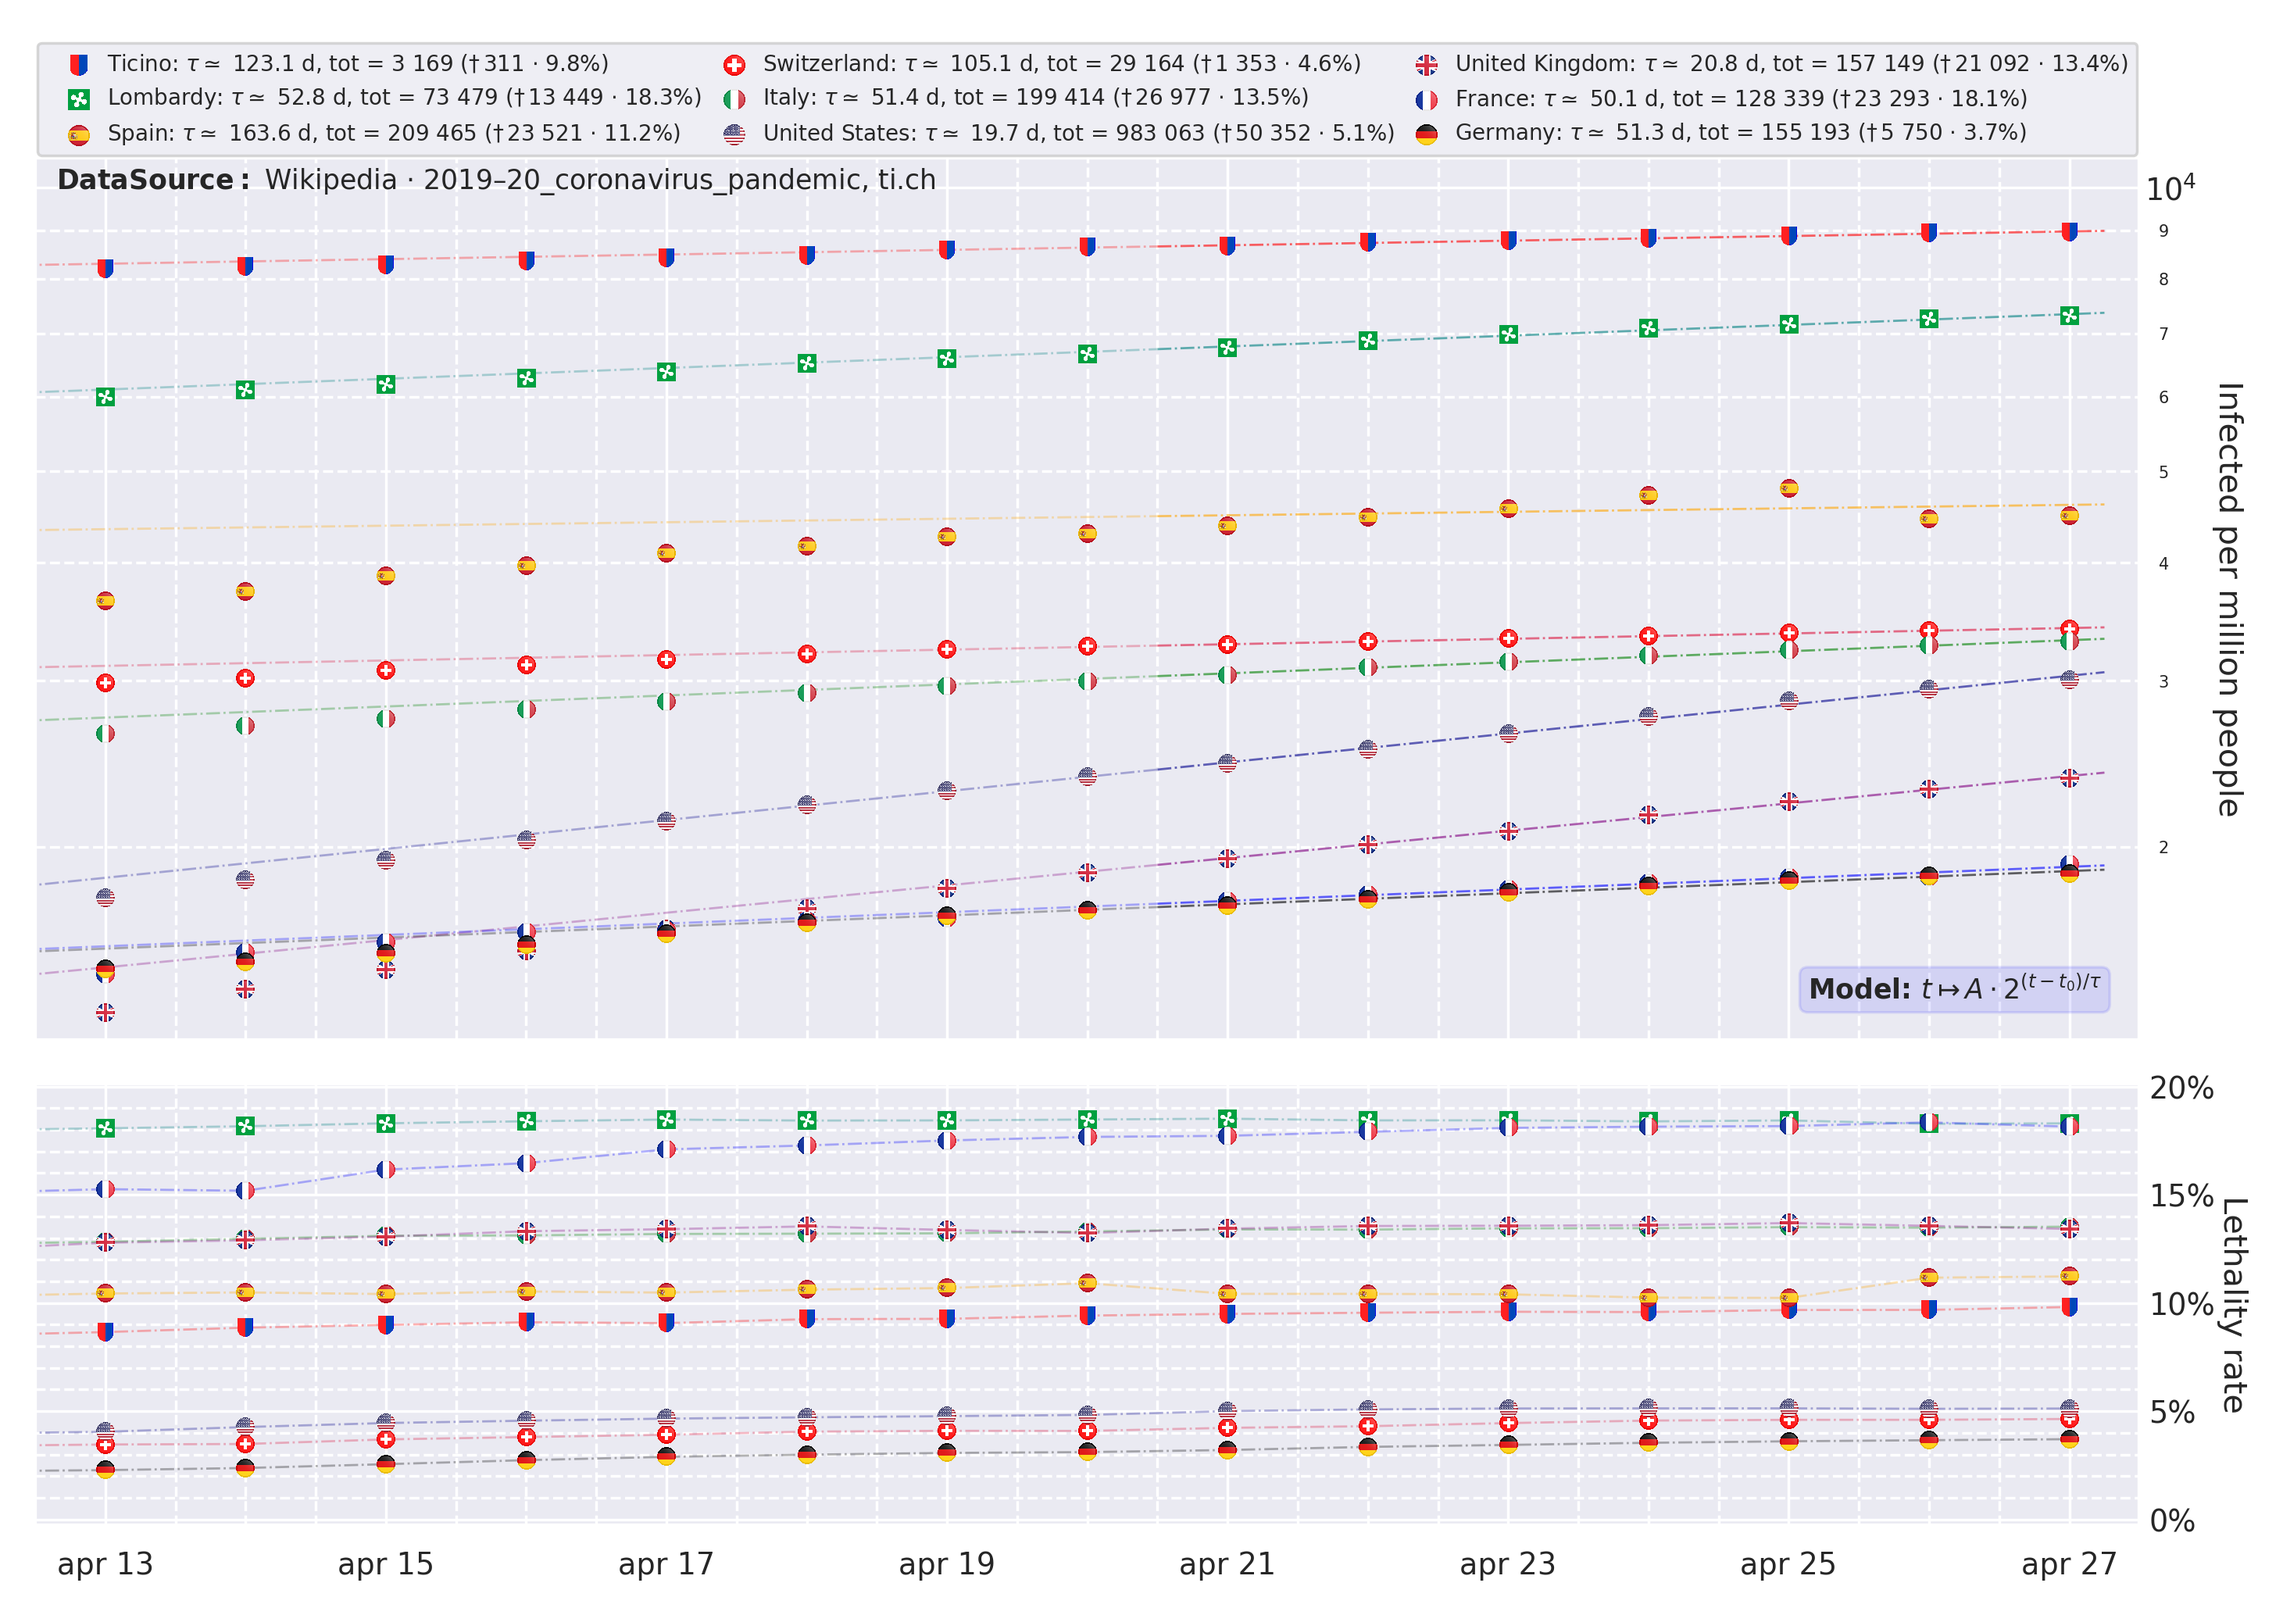
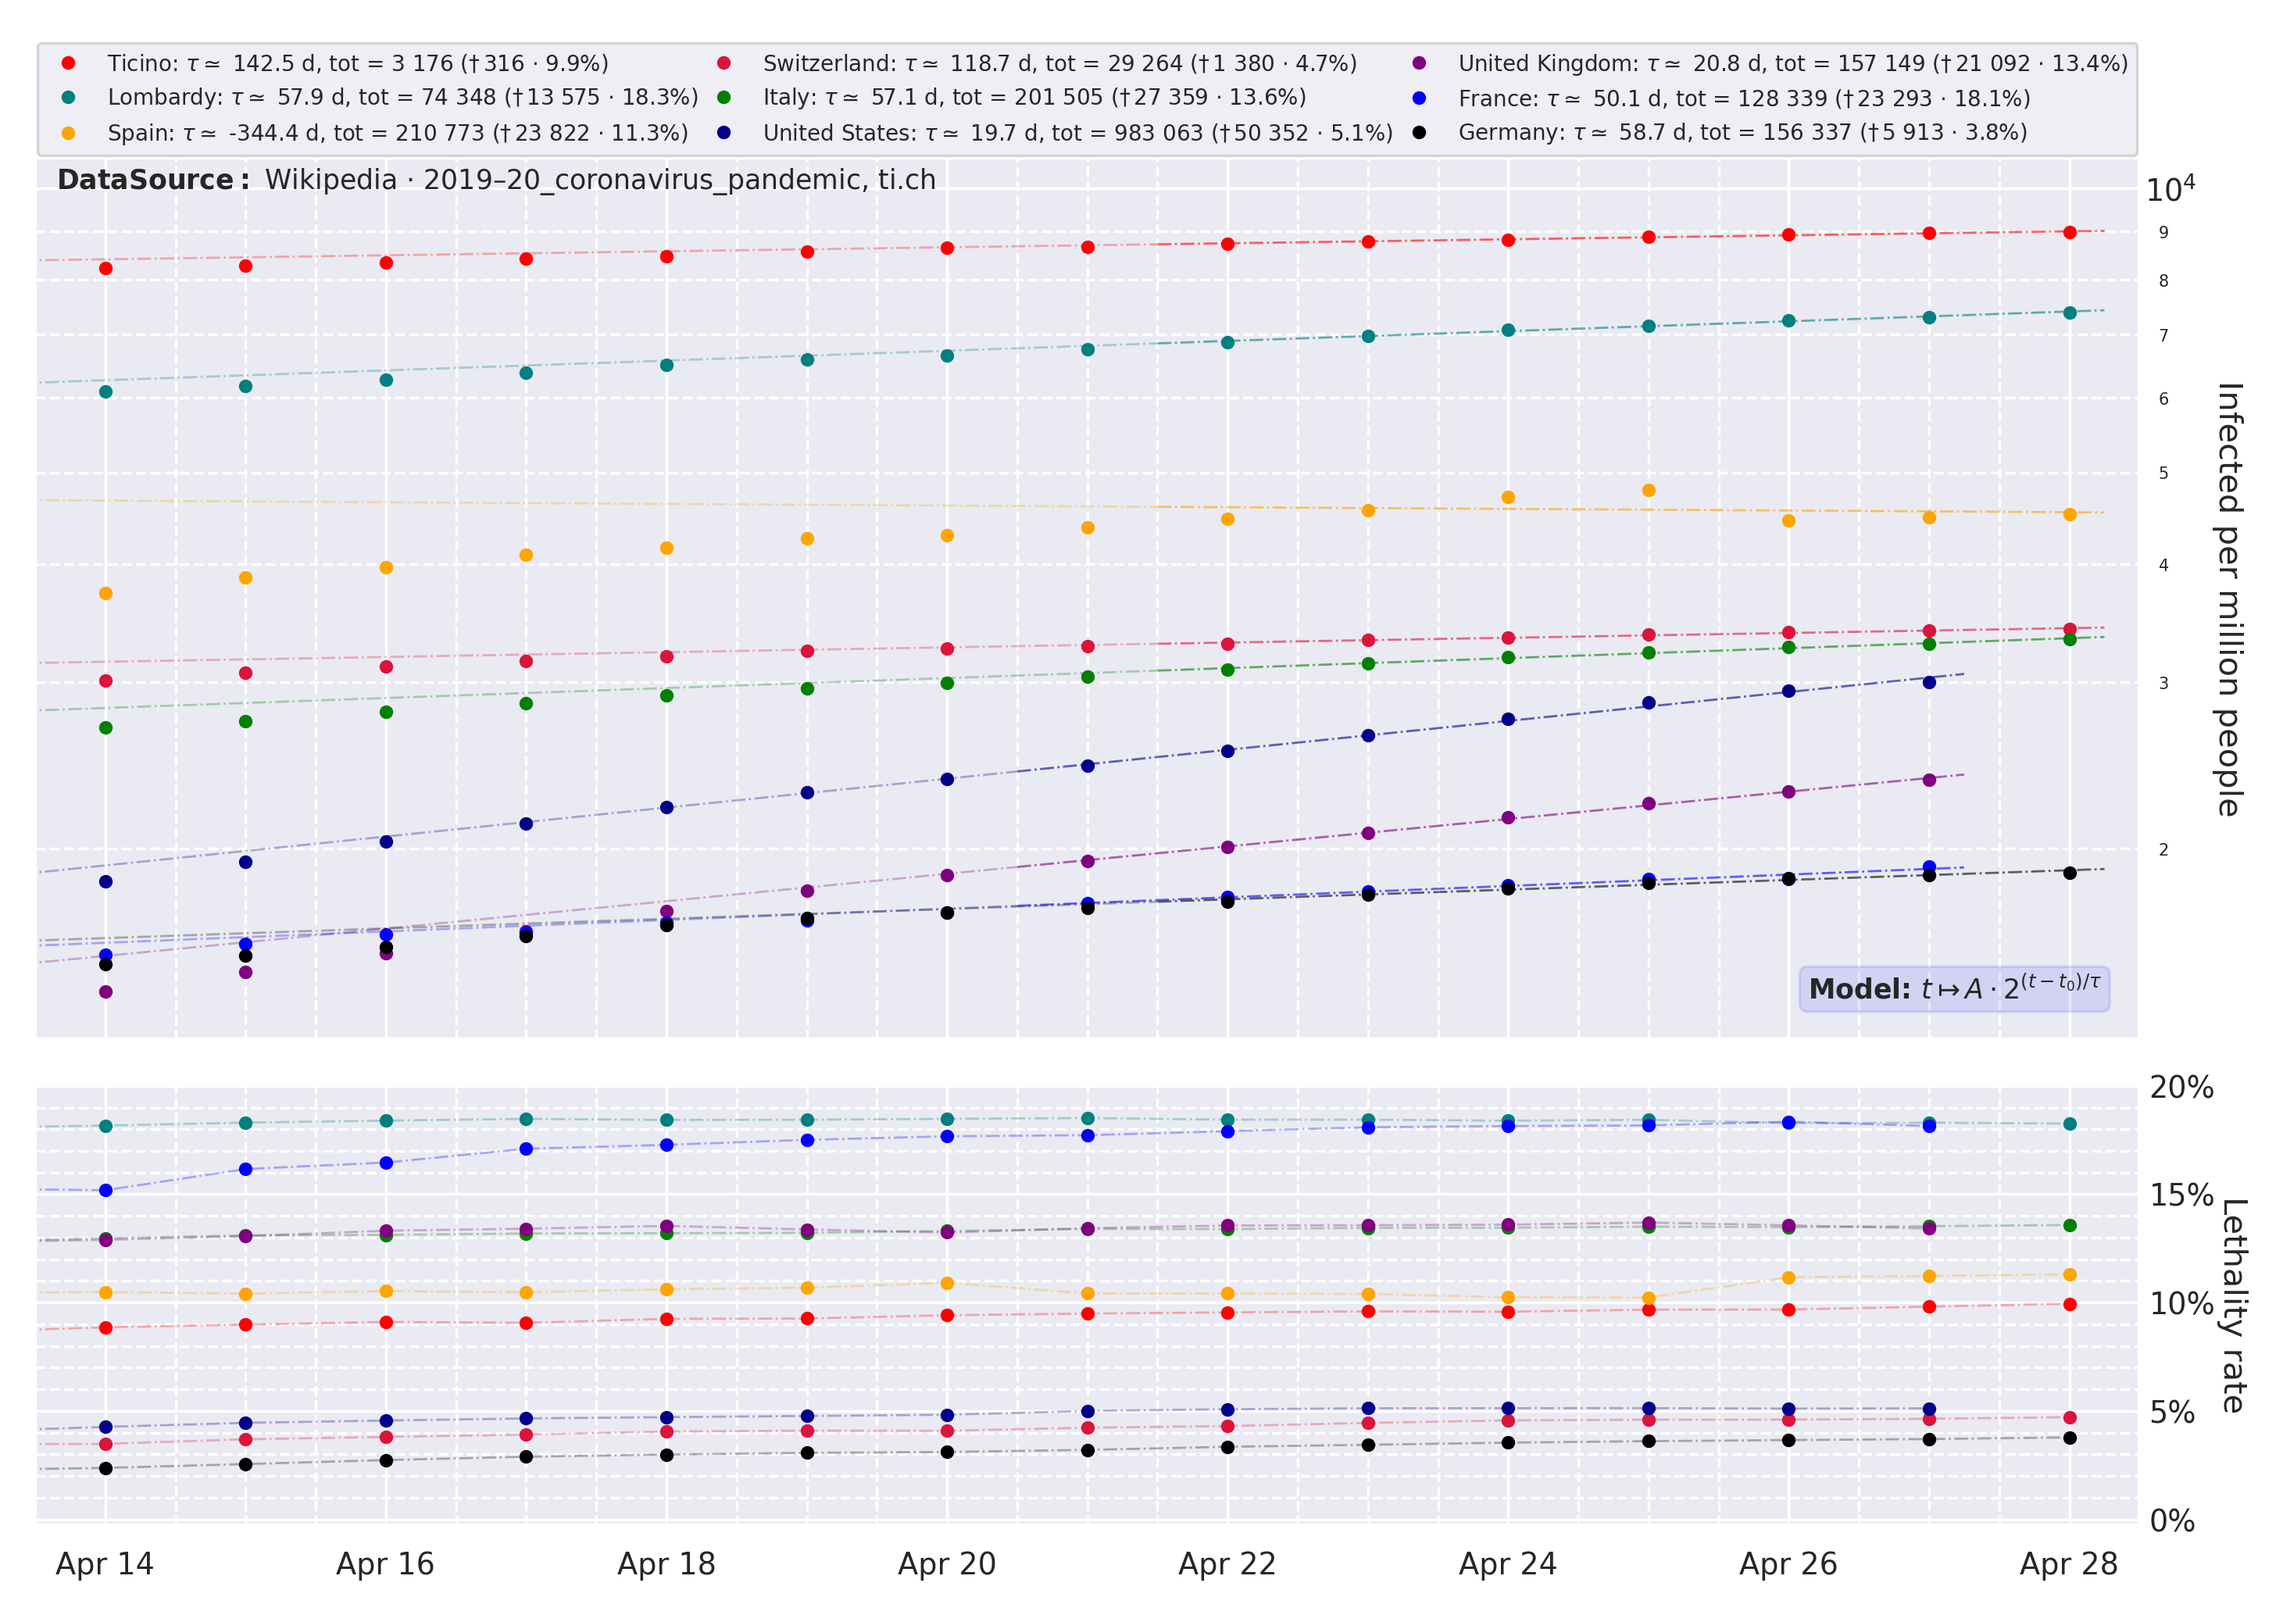
minor commit

diff --git a/Coronavirus/coronavirus.py b/Coronavirus/coronavirus.py
@@ -13,7 +13,7 @@ sns.set()
 register_matplotlib_converters()
 
 # 3 modes: 0 no flags, 1 representative flags, 2 flag markers
-flags = 2
+flags = 0
 
 country_numbers = 9  # number of countries to display (max 9)
 
